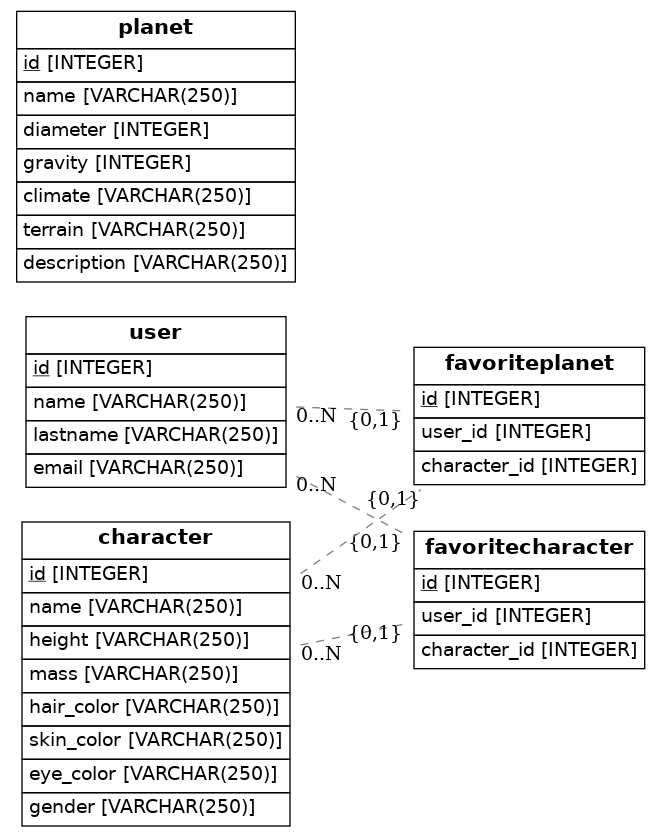
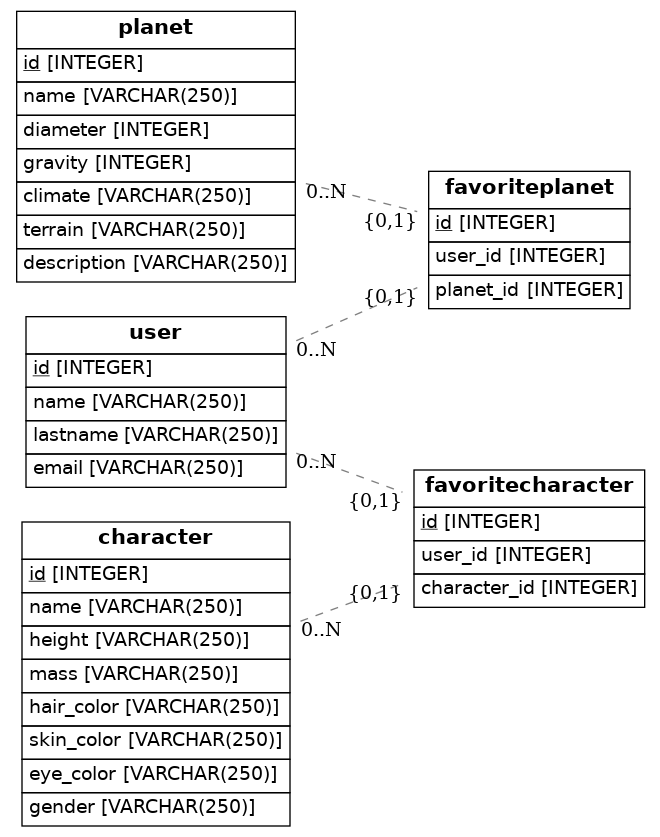
modeling starwars

diff --git a/src/models.py b/src/models.py
@@ -48,7 +48,7 @@ class FavoritePlanet(Base):
     # Notice that each column is also a normal Python instance attribute.
     id = Column(Integer, primary_key=True)
     user_id = Column(Integer, ForeignKey('user.id'))
-    character_id = Column(Integer, ForeignKey('character.id'))
+    planet_id = Column(Integer, ForeignKey('planet.id'))
     user = relationship(User)
     character = relationship(Character)
 
